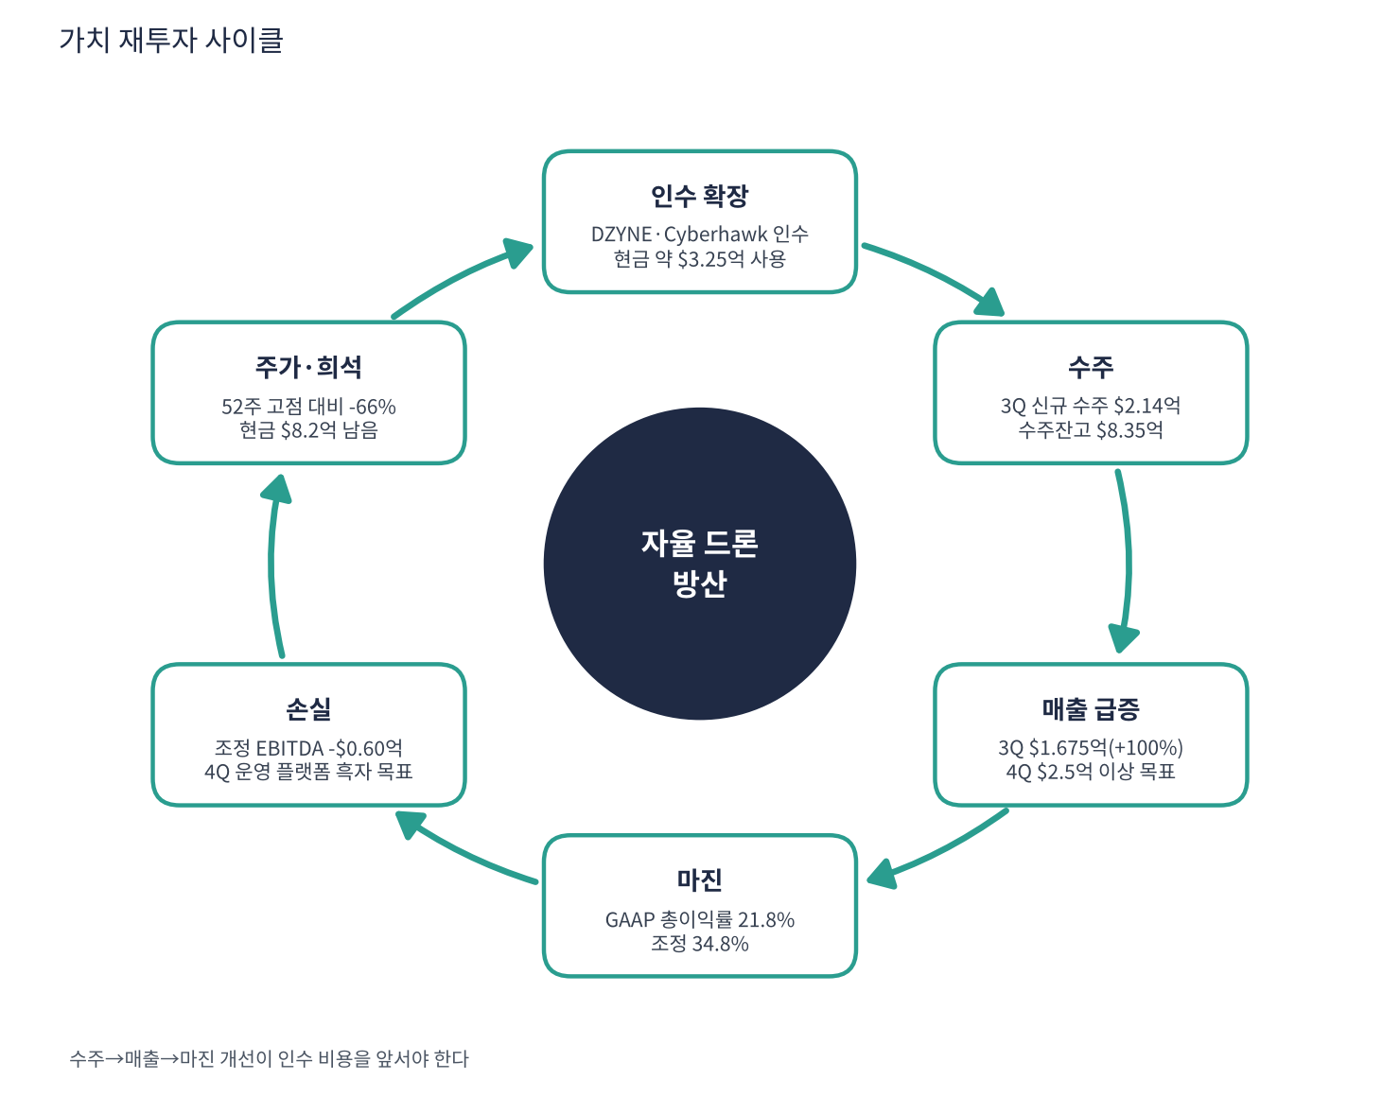
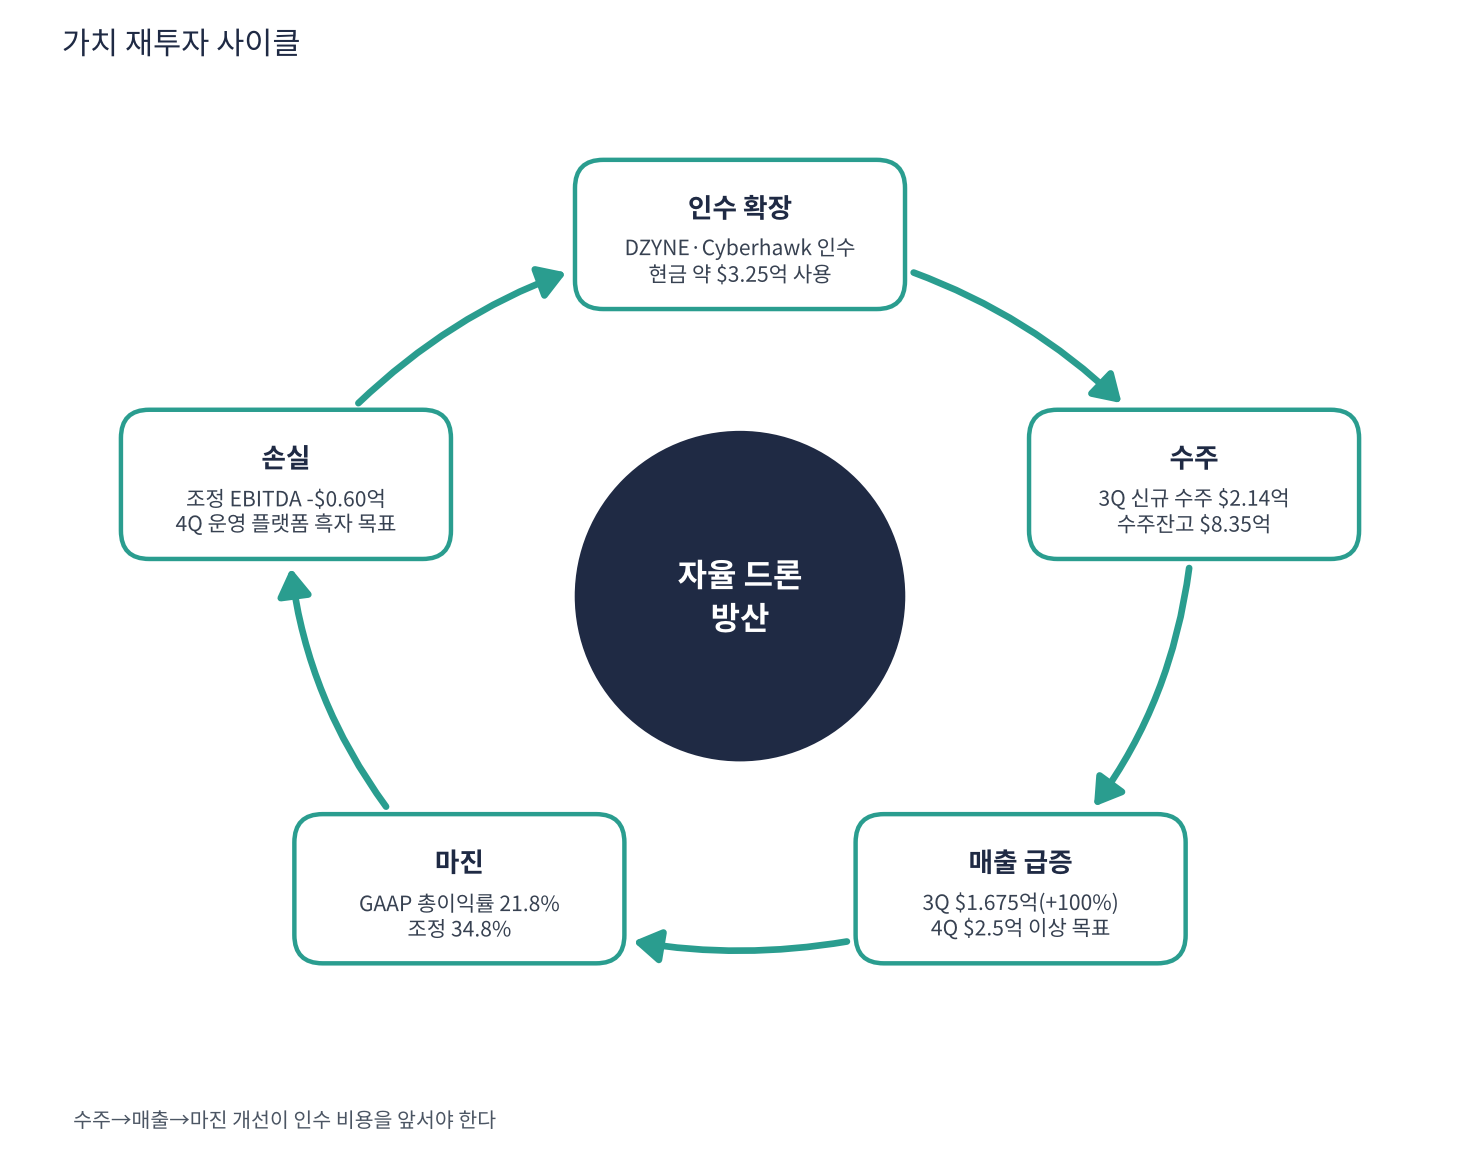
가치 재투자 사이클에서 주가·밸류 칸 제거 (기존 보고서 22개 정리)
- 차트와 표를 5칸으로 재작성: ACHR, ASTS, CRWD, IONQ, MSTR, ONDS, UMAC
- 표의 6번째 주가·밸류 행을 '약한 고리'로 교체: BA, BE, COIN, CRCL, JOBY
- 구조 설명의 주가·PER 문구 삭제: KO, WDC, NOW, GEV, JNJ, TXN, MRVL

Claude-Session: https://claude.ai/code/session_018spZhVx3tUdVWG7ajikTu3

Changed region(s): [[0.0614, 0.217, 0.9214, 0.8988]]

diff --git a/content/wdc/body.html b/content/wdc/body.html
@@ -145,7 +145,7 @@
 <p><b>판정: GAAP PEG 0.04는 비영업 이익으로 부풀려져 신뢰하기 어렵다. 비GAAP 연환산 기준으로는 0.31~0.50으로 '적극 매수' 기준 안이다.</b> 가격과 믹스가 이익 증가의 핵심이므로 EPS 성장이 10%로 꺾이면 1.25로 기준을 넘는다. 연환산 EPS와 성장률은 내 추정이다.</p>
 
 <h2 class="pb"><span class="n">10</span>가치 재투자 사이클</h2>
-<img class="ch" src="c_cycle.png"><p>WD 사이클은 <b>클라우드 수요 → 가격·믹스 → 이익률 → 현금·환원</b>이다. 강한 고리가 많지만 주가는 이 고리가 정점이라는 우려를 반영하고 있다.</p><table><tr><th style="width:16%">고리</th><th>현재 숫자</th><th>고리 강도</th><th>약해지는 신호</th></tr>
+<img class="ch" src="c_cycle.png"><p>WD 사이클은 <b>클라우드 수요 → 가격·믹스 → 이익률 → 현금·환원</b>이다. 강한 고리가 많고, 관건은 이 호황이 이어지는지다.</p><table><tr><th style="width:16%">고리</th><th>현재 숫자</th><th>고리 강도</th><th>약해지는 신호</th></tr>
 <tr><td>① 클라우드 수요</td><td>클라우드 매출 비중 89%, 엑사바이트 +22%</td><td><span class="tag g">강함</span></td><td>하이퍼스케일러 설비투자 감축</td></tr>
 <tr><td>② 가격·믹스</td><td>TB당 가격 10%대 후반 상승</td><td><span class="tag g">강함</span></td><td>가격 협상 약화</td></tr>
 <tr><td>③ 매출 전환</td><td>매출 $43.8억(+55%), 2Q 가이던스 +66~72%</td><td><span class="tag g">강함</span></td><td>2Q 매출 $50억 미달</td></tr>
@@ -153,4 +153,4 @@
 <tr><td>⑤ 현금·환원</td><td>FCF $13.8억(분기), 배당 +17%</td><td><span class="tag g">여유</span></td><td>환원 축소</td></tr>
 <tr><td>⑥ 기술·고객</td><td>HAMR 2027 상반기, 상위 고객 집중</td><td><span class="tag y">주의</span></td><td>HAMR 지연·고객 주문 조정</td></tr>
 </table>
-<p><b>이 사이클의 구조</b>: 모든 숫자가 강한데 주가는 -64%다. 시장은 '지금의 이익은 정점'이라고 판단한다. 약한 고리는 숫자가 아니라 지속성(⑥)이다.</p>
+<p><b>이 사이클의 구조</b>: 모든 숫자가 강하다. '지금의 이익이 정점일 수 있다'는 점이 관건이며 약한 고리는 숫자가 아니라 지속성(⑥)이다.</p>

diff --git a/content/mstr/body.html b/content/mstr/body.html
@@ -136,12 +136,11 @@
 <h3>PEG</h3><p><b>PEG는 산출 불가</b>다. 이익이 평가손익이라 PER이 정의되지 않고 EPS 성장률(-383%)도 의미가 없다. 대신 'BTC 수익률(주당 BTC 증가율)'을 보는 것이 맞고 올해 -3.7%다.</p>
 
 <h2 class="pb"><span class="n">10</span>가치 재투자 사이클</h2>
-<img class="ch" src="c_cycle.png"><p>스트래티지 사이클은 <b>주가 프리미엄 → 증자 → BTC 매수 → 주당 BTC 증가 → 프리미엄 유지</b>다. 지금은 프리미엄 고리가 끊겨 있다.</p><table><tr><th style="width:16%">고리</th><th>현재 숫자</th><th>고리 강도</th><th>약해지는 신호</th></tr>
+<img class="ch" src="c_cycle.png"><p>스트래티지 사이클은 <b>자금 조달(증자·우선주) → BTC 매수 → BTC 가격 상승·평가이익 → 우선주 배당 → 현금 준비금</b>이다. 현재는 첫 고리인 자금 조달이 막혀 있다.</p><table><tr><th style="width:16%">고리</th><th>현재 숫자</th><th>고리 강도</th><th>약해지는 신호</th></tr>
 <tr><td>① 자금 조달</td><td>올해 $212억 조달, 3Q ATM $54.1억</td><td><span class="tag y">진행</span></td><td>프리미엄 소멸 시 중단</td></tr>
 <tr><td>② BTC 매수</td><td>848,517 BTC</td><td><span class="tag g">유지</span></td><td>—</td></tr>
 <tr><td>③ BTC 가격</td><td>3Q 평가이익 $209억, 올해 수익률 -3.7%</td><td><span class="tag y">변동</span></td><td>BTC 하락</td></tr>
 <tr><td>④ 우선주 배당</td><td>3Q $4.2억</td><td><span class="tag y">부담</span></td><td>현금 지출 증가</td></tr>
 <tr><td>⑤ 현금 준비금</td><td>$51억</td><td><span class="tag g">방어</span></td><td>소진 시 BTC 매각</td></tr>
-<tr><td>⑥ 프리미엄</td><td>시총/BTC 0.77</td><td><span class="tag b">약함</span></td><td>희석 증자 불가</td></tr>
 </table>
-<p><b>구조</b>: 마지막 ⑥이 약해 ①이 막히면 전략이 정체한다. 이 상황이 스트래티지의 가장 큰 위험이다.</p>
+<p><b>구조</b>: ①(자금 조달)이 막히면 전략이 정체한다. 이 상황이 스트래티지의 가장 큰 위험이다.</p>

diff --git a/content/ionq/body.html b/content/ionq/body.html
@@ -154,6 +154,5 @@
 <tr><td>③ 시스템 판매</td><td>분기 대형 계약 $2,500만~3,300만 다수</td><td><span class="tag g">강함</span></td><td>정부 예산 삭감·지연</td></tr>
 <tr><td>④ 수주 잔고</td><td>$12억, DARPA C단계</td><td><span class="tag g">강함</span></td><td>잔고 정체</td></tr>
 <tr><td>⑤ 매출 성장</td><td>+336%, 연 $5.1억 전망</td><td><span class="tag g">강함</span></td><td>본업 성장률 100% 이하로 둔화</td></tr>
-<tr><td>⑥ 기업가치 → 재증자</td><td>주가 52주 고점 대비 -56%</td><td><span class="tag b">약함</span></td><td>현재 진행 중</td></tr>
 </table>
-<p><b>핵심 판단</b>: ①~⑤번 고리는 강하지만 <b>⑥번(주가)이 약해지고 있다</b>. 6월 $73.65 → 11/5 $24.92(-66%). 자본이 돌리는 사이클은 주가가 꺾이면 다음 바퀴의 연료(증자 자금)가 줄어든다. 이익이 스스로 다음 바퀴를 돌리는 '자기 강화 사이클'이 되려면 ③→⑤ 매출이 스스로 현금을 버는 단계(영업흑자)에 도달해야 하는데, 회사가 제시한 흑자 시점은 아직 멀다. <b>이 사이클은 아직 '자기 강화형'이 아닌 '외부 연료형'이다.</b></p>
+<p><b>핵심 판단</b>: ①~⑤번 고리는 강하다. 다만 이 사이클은 출발점이 자본 조달(주식 발행)이라, 조달이 이어지지 못하면 다음 바퀴의 연료가 줄어든다. 이익이 스스로 다음 바퀴를 돌리는 '자기 강화 사이클'이 되려면 ⑤ 매출이 스스로 현금을 버는 단계(영업흑자)에 도달해야 하는데, 회사가 제시한 흑자 시점은 아직 멀다. <b>이 사이클은 아직 '자기 강화형'이 아닌 '외부 연료형'이다.</b></p>

diff --git a/content/now/body.html b/content/now/body.html
@@ -143,7 +143,7 @@
 <p><b>판정: GAAP PEG는 산출 불가(EPS가 감소 중), 대체 지표는 1.1 안팎으로 투자 적격 기준(1.0)을 살짝 넘는다.</b> 인수 비용이 이익을 눌러서 GAAP 이익 기준 PER은 의미가 약하다. P/FCF를 성장률로 나눈 값은 정식 PEG가 아니라 내가 만든 대체 지표이며 FCF 성장률은 반영하지 않았다.</p>
 
 <h2 class="pb"><span class="n">10</span>가치 재투자 사이클</h2>
-<img class="ch" src="c_cycle.png"><p>서비스나우 사이클은 <b>AI 수요 → 구독 확대 → 현금 → 인수·재투자</b>로 이어진다. 구독과 현금은 강하지만 인수가 GAAP 이익을 누르는 점이 주가를 흔든다.</p><table><tr><th style="width:16%">고리</th><th>현재 숫자</th><th>고리 강도</th><th>약해지는 신호</th></tr>
+<img class="ch" src="c_cycle.png"><p>서비스나우 사이클은 <b>AI 수요 → 구독 확대 → 현금 → 인수·재투자</b>로 이어진다. 구독과 현금은 강하지만 인수가 GAAP 이익을 누르는 점이 약한 고리다.</p><table><tr><th style="width:16%">고리</th><th>현재 숫자</th><th>고리 강도</th><th>약해지는 신호</th></tr>
 <tr><td>① AI 에이전트 수요</td><td>AI ACV $17억 목표</td><td><span class="tag g">강함</span></td><td>ACV 목표 하향</td></tr>
 <tr><td>② 구독 확대</td><td>구독 $39.9억(+21%), cRPO $136.5억</td><td><span class="tag g">강함</span></td><td>cRPO 성장 18.5% 아래로 하락</td></tr>
 <tr><td>③ 매출 전환</td><td>매출 $41.1억(+20.5%)</td><td><span class="tag g">강함</span></td><td>4Q 매출 둔화</td></tr>

diff --git a/content/asts/body.html b/content/asts/body.html
@@ -145,6 +145,5 @@
 <tr><td>③ 매출 전환</td><td>26.3Q $4,230만, 분기 변동 큼</td><td><span class="tag b">약함</span></td><td>매출이 다시 급락(26.1Q $1,470만 사례)</td></tr>
 <tr><td>④ 현금 소모</td><td>분기 FCF -$4.6억~-$7.0억</td><td><span class="tag b">약함</span></td><td>설비투자 확대</td></tr>
 <tr><td>⑤ 외부 자금</td><td>전환사채 $11.5억(7월) + 일본 $10억</td><td><span class="tag y">의존</span></td><td>시장이 닫히면 조달 불가</td></tr>
-<tr><td>⑥ 희석·주가</td><td>52주 고점 대비 -72%</td><td><span class="tag b">주의</span></td><td>추가 지분 조달</td></tr>
 </table>
-<p><b>이 사이클의 구조</b>: 아직 번 돈이 사업에 재투자되는 사이클이 아니라 <b>빌린 돈이 위성에 재투자되는 사이클</b>이다. 강한 고리가 없고, 위성 수가 늘어 ③·④가 개선돼야 선순환이 시작된다. 약한 고리는 ③·④·⑥이다.</p>
+<p><b>이 사이클의 구조</b>: 아직 번 돈이 사업에 재투자되는 사이클이 아니라 <b>빌린 돈이 위성에 재투자되는 사이클</b>이다. 강한 고리가 없고, 위성 수가 늘어 ③·④가 개선돼야 선순환이 시작된다. 약한 고리는 ③·④이다.</p>

diff --git a/content/crwd/body.html b/content/crwd/body.html
@@ -153,6 +153,5 @@
 <tr><td>③ 매출 전환</td><td>매출 +26%, ARR +25%</td><td><span class="tag g">강함</span></td><td>성장률 20% 아래로 하락</td></tr>
 <tr><td>④ 현금 창출</td><td>영업현금 $5.30억, 잉여현금 마진 26%</td><td><span class="tag g">강함</span></td><td>잉여현금 마진 20% 아래</td></tr>
 <tr><td>⑤ 재투자</td><td>현금 $50.1억으로 인수·R&amp;D 여력</td><td><span class="tag g">여유</span></td><td>대형 인수 후 통합 실패</td></tr>
-<tr><td>⑥ 밸류에이션·운영 리스크</td><td>P/S 37~41배, 2024년 7월 같은 장애 위험</td><td><span class="tag b">약한 고리</span></td><td>소프트웨어 업종 재평가, 대형 사고</td></tr>
 </table>
-<p><b>구조</b>: 사업의 고리는 모두 강하고 약한 고리는 사업 밖(주가 배수, 업데이트 사고)에 있다. 이번 분석 대상 중 재무 위험이 가장 작은 사이클이다.</p>
+<p><b>구조</b>: 5개 고리가 모두 강하다. 약해지는 신호는 대형 업데이트 사고 같은 운영 리스크다. 이번 분석 대상 중 재무 위험이 가장 작은 사이클이다.</p>

diff --git a/content/mrvl/body.html b/content/mrvl/body.html
@@ -156,4 +156,4 @@
 <tr><td>⑤ 신제품</td><td>맞춤형 가속 FY27 하반기, 1.6T 광 DSP 램프업</td><td><span class="tag y">진행 중</span></td><td>맞춤형 칩 비중 확대로 매출총이익률 하락</td></tr>
 <tr><td>⑥ 고객 프로그램</td><td>신규 대형 프로그램(언론: 구글), 아마존·마이크로소프트</td><td><span class="tag y">집중</span></td><td>브로드컴과 같은 고객을 두고 경쟁</td></tr>
 </table>
-<p><b>구조</b>: ①·②는 강하고 ④가 사이클의 크기를 키우는 동시에 가장 큰 위험이다. 12월 초 FY27Q3 실적이 ① 가이던스(+52%)를 확인하는지, 그리고 루멘텀 주주 승인이 주가에 어떻게 작용하는지가 다음 확인점이다.</p>
+<p><b>구조</b>: ①·②는 강하고 ④가 사이클의 크기를 키우는 동시에 가장 큰 위험이다. 12월 초 FY27Q3 실적이 ① 가이던스(+52%)를 확인하는지, 그리고 루멘텀 주주 승인이 인수 진행에 어떻게 작용하는지가 다음 확인점이다.</p>

diff --git a/content/be/body.html b/content/be/body.html
@@ -147,6 +147,6 @@
 <tr><td>③ 이익</td><td>비GAAP 영업이익 $2.86억(23%)</td><td><span class="tag g">강함</span></td><td>총이익률 하락</td></tr>
 <tr><td>④ 현금</td><td>영업현금 -$0.27억, 잉여현금 -$1.81억</td><td><span class="tag r">약함</span></td><td>재고·미수금 추가 증가</td></tr>
 <tr><td>⑤ 재투자</td><td>설비투자 $1.54억(전분기 3배)</td><td><span class="tag y">진행</span></td><td>투자 대비 매출 지연</td></tr>
-<tr><td>⑥ 밸류에이션</td><td>PER 74배, EV/영업이익 57배</td><td><span class="tag r">부담</span></td><td>성장 둔화 시 주가 하락</td></tr>
+<tr><td>⑥ 약한 고리</td><td>재고·미수금 증가, 현금 전환 지연</td><td><span class="tag y">부담</span></td><td>현금 전환 추가 지연</td></tr>
 </table>
 <p><b>구조</b>: 강한 고리는 ①②③, 약한 고리는 ④⑤⑥이다.</p>

diff --git a/content/txn/body.html b/content/txn/body.html
@@ -156,4 +156,4 @@
 <tr><td>⑤ 환원·재투자</td><td>순부채/EBITDA 0.5배로 환원 여력 충분</td><td><span class="tag g">여유</span></td><td>환원 축소 신호</td></tr>
 <tr><td>⑥ 가이던스</td><td>4Q 매출 중간값이 3Q와 비슷</td><td><span class="tag y">주의</span></td><td>다음 분기 가이던스가 하향</td></tr>
 </table>
-<p><b>이 사이클의 구조</b>: 앞의 다섯 고리는 강하다. 약한 고리는 ⑥으로, 회복세가 한 분기에 멈추는 것처럼 보이는 가이던스다. 주가가 11/9에 하루 +6.6% 오른 상태라 4Q 가이던스가 기대보다 약하면 반락 폭이 클 수 있다.</p>
+<p><b>이 사이클의 구조</b>: 앞의 다섯 고리는 강하다. 약한 고리는 ⑥으로, 회복세가 한 분기에 멈추는 것처럼 보이는 가이던스다. 4Q 가이던스가 기대보다 약하면 회복세가 멈출 수 있다.</p>

diff --git a/content/ko/body.html b/content/ko/body.html
@@ -140,4 +140,4 @@
 <tr><td>⑤ 현금 재투자</td><td>FCF 연 $143억, 배당 + 마케팅</td><td><span class="tag g">강함</span></td><td>부채 증가로 배당 재원 압박</td></tr>
 <tr><td>⑥ 포트폴리오 확장</td><td>제로·페어라이프 성장, 보틀러 재매각</td><td><span class="tag y">진행 중</span></td><td>인수 실패(일회성 손상)</td></tr>
 </table>
-<p><b>사이클의 특징</b>: 코카콜라 사이클은 한 바퀴에 5~8%씩 커진다. 대신 경기 침체·금리·기술 변화에 거의 영향을 받지 않는다. 주가가 오르는 국면에서는 '사이클의 속도'(EPS +10%)보다 PER이 더 빨리 올라간 상태라는 점을 기억해야 한다.</p>
+<p><b>사이클의 특징</b>: 코카콜라 사이클은 한 바퀴에 5~8%씩 커진다. 대신 경기 침체·금리·기술 변화에 거의 영향을 받지 않는다.</p>

diff --git a/content/ba/body.html b/content/ba/body.html
@@ -143,6 +143,6 @@
 <tr><td>③ 이익</td><td>상업기 -6.5%, 서비스 18.3%</td><td><span class="tag y">부담</span></td><td>증산 비용 추가</td></tr>
 <tr><td>④ 현금</td><td>3Q 잉여현금 $4.64억, 9개월 -$3.59억</td><td><span class="tag y">회복 중</span></td><td>운전자본 역전</td></tr>
 <tr><td>⑤ 부채</td><td>총차입금 $459억 vs 현금 $207억</td><td><span class="tag r">부담</span></td><td>금리, 신규 조달</td></tr>
-<tr><td>⑥ 주가</td><td>52주 저점($165) 근처, CTA -1.00</td><td><span class="tag r">약함</span></td><td>$165 이탈</td></tr>
+<tr><td>⑥ 약한 고리</td><td>737 증산 지연, 2027 FCF 전망 $30억(보도)</td><td><span class="tag r">약함</span></td><td>월 47대 목표 추가 지연</td></tr>
 </table>
 <p><b>구조</b>: 강한 고리는 ①, 약한 고리는 ②③④⑤⑥이다.</p>

diff --git a/content/coin/body.html b/content/coin/body.html
@@ -145,6 +145,6 @@
 <tr><td>③ 조정 이익</td><td>조정 EBITDA $3.33억(+60% QoQ)</td><td><span class="tag g">강함</span></td><td>매출 둔화</td></tr>
 <tr><td>④ 신사업</td><td>예측시장 연 환산 $2억+</td><td><span class="tag y">진행</span></td><td>규제 변화</td></tr>
 <tr><td>⑤ 평가손익</td><td>3Q 평가이익 $7.15억, 4Q25~2Q26 순손실</td><td><span class="tag r">변동 큼</span></td><td>암호자산 가격 하락</td></tr>
-<tr><td>⑥ 주가</td><td>52주 저점($125.4) 근처, CTA -1.00</td><td><span class="tag r">약함</span></td><td>200일선 회복 실패</td></tr>
+<tr><td>⑥ 약한 고리</td><td>현물 거래 약세, 암호자산 평가손익</td><td><span class="tag r">약함</span></td><td>거래 약세 지속</td></tr>
 </table>
 <p><b>구조</b>: 강한 고리는 ②③, 약한 고리는 ⑤⑥이다.</p>
